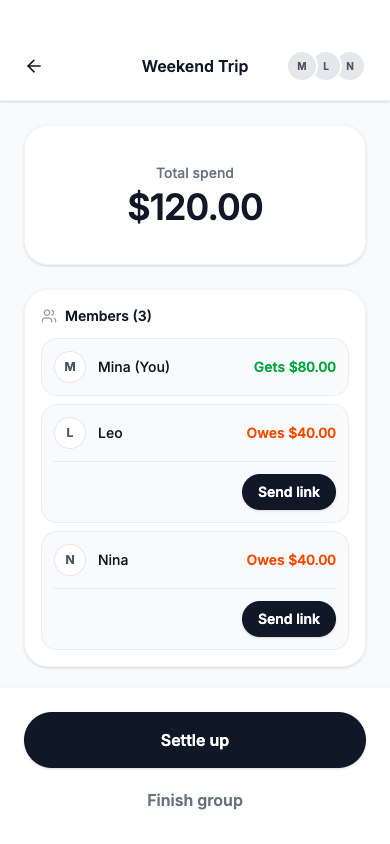
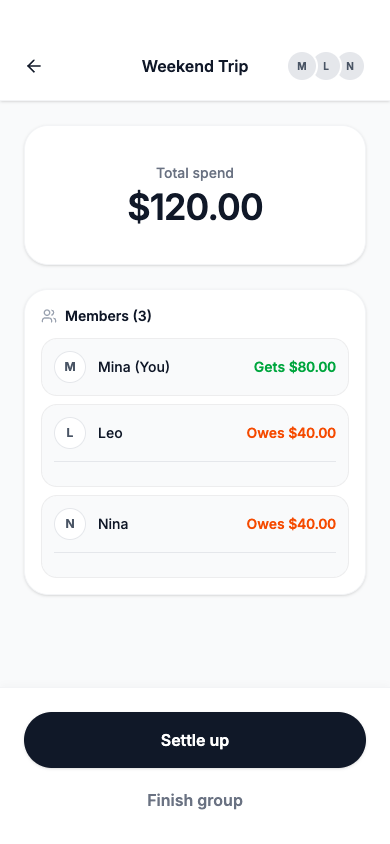
Move request actions into settle up

diff --git a/src/components/GroupDetail.tsx b/src/components/GroupDetail.tsx
@@ -14,16 +14,12 @@ export function GroupDetail({
   groupId, 
   onBack, 
   onAddSpend, 
-  onRequestPayment, 
-  onOpenPayerView,
   onCloseGroup,
   onGoToSettleUp
 }: { 
   groupId: string, 
   onBack: () => void, 
   onAddSpend: () => void, 
-  onRequestPayment: (memberId: string) => void, 
-  onOpenPayerView: (memberId: string) => void,
   onCloseGroup: () => void,
   onGoToSettleUp: () => void
 }) {
@@ -82,7 +78,6 @@ export function GroupDetail({
           <div className="space-y-2">
             {members.map(member => {
               const bal = getMemberBalance(state, group.id, member.id);
-              const openSplits = (Object.values(state.splits) as Split[]).filter(s => s.userId === member.id && s.status === 'open' && state.expenses[s.expenseId]?.groupId === group.id);
               const reqSplits = (Object.values(state.splits) as Split[]).filter(s => s.userId === member.id && s.status === 'request_sent' && state.expenses[s.expenseId]?.groupId === group.id);
               const markedSplits = (Object.values(state.splits) as Split[]).filter(s => s.userId === member.id && s.status === 'marked_paid' && state.expenses[s.expenseId]?.groupId === group.id);
               
@@ -108,31 +103,14 @@ export function GroupDetail({
 
                   {member.id !== state.currentUserId && isOwed && (
                     <div className="mt-3 pt-3 border-t border-gray-200 dark:border-gray-700 flex justify-end items-center">
-                      {openSplits.length > 0 ? (
-                        <button 
-                          onClick={() => onRequestPayment(member.id)}
-                          className="px-4 py-2 bg-gray-900 dark:bg-gray-100 text-white dark:text-gray-900 rounded-full text-sm font-semibold hover:bg-gray-800 dark:hover:bg-gray-200 transition-colors shadow-sm"
-                        >
-                          Send link
-                        </button>
-                      ) : reqSplits.length > 0 ? (
-                        <div className="flex items-center space-x-3">
-                          <span className="text-sm font-medium text-gray-500 dark:text-gray-400">
-                            Request sent
-                          </span>
-                          <button 
-                            onClick={() => onOpenPayerView(member.id)}
-                            className="px-3 py-1.5 bg-gray-100 dark:bg-gray-800 text-gray-700 dark:text-gray-300 rounded-full text-sm font-semibold hover:bg-gray-200 dark:hover:bg-gray-700 transition-colors"
-                          >
-                            View request
-                          </button>
-                        </div>
+                      {reqSplits.length > 0 ? (
+                        <span className="text-sm font-medium text-gray-500 dark:text-gray-400">
+                          Request sent
+                        </span>
                       ) : markedSplits.length > 0 ? (
-                        <div className="flex items-center space-x-3">
-                          <span className="text-sm font-medium text-orange-600">
-                            Needs confirm
-                          </span>
-                        </div>
+                        <span className="text-sm font-medium text-orange-600">
+                          Needs confirm
+                        </span>
                       ) : null}
                     </div>
                   )}

diff --git a/src/components/SettleUp.tsx b/src/components/SettleUp.tsx
@@ -7,11 +7,11 @@ import { getInitials } from '../utils';
 export function SettleUp({
   groupId,
   onBack,
-  onRequestPayment
+  onOpenPayerView
 }: {
   groupId: string;
   onBack: () => void;
-  onRequestPayment: (memberId: string) => void;
+  onOpenPayerView: (memberId: string) => void;
 }) {
   const { state, dispatch } = useAppState();
   const group = state.groups[groupId];
@@ -128,22 +128,25 @@ export function SettleUp({
                   )}
 
                   <div className="flex space-x-2 border-t border-gray-50 dark:border-gray-800 pt-3">
-                    {isCurrentUserReceiver && !hasMarkedPaid && (
+                    {isCurrentUserReceiver && !hasMarkedPaid && !hasRequestSent && (
                       <button 
                         onClick={() => {
                           handleRequest(move.from);
-                           // Optional: if we want to navigate to RequestPayment view, or just dispatch and stay. 
-                          // Wait, the prompt says "Sending a payment request from Settle up SHALL transition that payer to request_sent."
-                          // If we just transition and stay, it's easier. We don't need to navigate.
-                          // But wait! GroupDetail navigating to request_payment is a thing.
-                          // Let's just dispatch and let it be. We don't navigate.
                         }}
-                        disabled={hasRequestSent}
                         aria-label={`Send link to ${fromUser?.name}`}
                         className="flex-1 py-2 bg-gray-900 dark:bg-gray-100 text-white dark:text-gray-900 rounded-xl text-sm font-semibold hover:bg-gray-800 dark:hover:bg-gray-200 transition-colors disabled:opacity-50 disabled:cursor-not-allowed flex items-center justify-center"
                       >
                         <Send className="w-4 h-4 mr-2" />
-                        {hasRequestSent ? 'Sent' : 'Send link'}
+                        Send link
+                      </button>
+                    )}
+                    {isCurrentUserReceiver && hasRequestSent && !hasMarkedPaid && (
+                      <button
+                        onClick={() => onOpenPayerView(move.from)}
+                        aria-label={`View request for ${fromUser?.name}`}
+                        className="flex-1 py-2 bg-gray-100 dark:bg-gray-800 text-gray-700 dark:text-gray-300 rounded-xl text-sm font-semibold hover:bg-gray-200 dark:hover:bg-gray-700 transition-colors flex items-center justify-center"
+                      >
+                        View request
                       </button>
                     )}
                     {isCurrentUserReceiver && hasMarkedPaid && (

diff --git a/src/App.tsx b/src/App.tsx
@@ -85,8 +85,6 @@ function AppRouter() {
       groupId={view.groupId} 
       onBack={() => setView({ name: 'home' })} 
       onAddSpend={() => setView({ name: 'capture_spend', groupId: view.groupId })}
-      onRequestPayment={(memberId) => setView({ name: 'request_payment', groupId: view.groupId, memberId })}
-      onOpenPayerView={(memberId) => setView({ name: 'payer_view', groupId: view.groupId, memberId })}
       onCloseGroup={() => setView({ name: 'close_group', groupId: view.groupId })}
       onGoToSettleUp={() => setView({ name: 'settle_up', groupId: view.groupId })}
     />;
@@ -94,7 +92,7 @@ function AppRouter() {
     content = <SettleUp
       groupId={view.groupId}
       onBack={() => setView({ name: 'group_detail', groupId: view.groupId })}
-      onRequestPayment={(memberId) => setView({ name: 'request_payment', groupId: view.groupId, memberId })}
+      onOpenPayerView={(memberId) => setView({ name: 'payer_view', groupId: view.groupId, memberId })}
     />;
   } else if (view.name === 'close_group') {
     content = <CloseGroup 

diff --git a/proof/mobile-telegram-step-count.md b/proof/mobile-telegram-step-count.md
@@ -36,7 +36,7 @@ Not counted as steps:
 This is the path already used in the proof scripts and Telegram Desktop/mobile
 validation. It proves that a group can be finished even while Nina remains open.
 
-Total: 28 user-visible steps.
+Total: 27 user-visible steps.
 
 | # | Person | Screen | Action | Required result |
 |---:|---|---|---|---|
@@ -60,37 +60,35 @@ Total: 28 user-visible steps.
 | 18 | Mina | Review Split | Tap `Save spend` | Group Detail shows open balances |
 | 19 | Mina | Group Detail | Tap `Settle up` | Settle Up opens |
 | 20 | Mina | Settle Up | Tap `Send link to Leo` | Leo becomes `Request sent`; Mina net stays `+$80.00` |
-| 21 | Mina | Settle Up | Tap back | Group Detail opens |
-| 22 | Leo | Group Detail | Tap `View request` for Leo | Payment request opens |
-| 23 | Leo | Payment request | Tap `I paid Mina` | Leo becomes `Needs confirm`; Mina net stays `+$80.00` |
-| 24 | Mina | Group Detail | Tap `Confirm received from Leo` | Leo settles; Mina net becomes `+$40.00` |
-| 25 | Mina | Group Detail | Tap `Finish group` | Finish Group opens with `$40.00` still open warning |
-| 26 | Mina | Finish Group | Tap `Finish and save summary` | Group Summary opens |
-| 27 | Mina | Group Summary | Review summary | Total `$120.00`; open `$40.00`; Leo settled; Nina owes |
-| 28 | Mina | Group Summary | Tap `Done` | Home/History is reachable with persisted group summary |
+| 21 | Leo | Settle Up | Tap `View request` for Leo | Payment request opens |
+| 22 | Leo | Payment request | Tap `I paid Mina` | Leo becomes `Needs confirm`; Mina net stays `+$80.00` |
+| 23 | Mina | Group Detail | Tap `Confirm received from Leo` | Leo settles; Mina net becomes `+$40.00` |
+| 24 | Mina | Group Detail | Tap `Finish group` | Finish Group opens with `$40.00` still open warning |
+| 25 | Mina | Finish Group | Tap `Finish and save summary` | Group Summary opens |
+| 26 | Mina | Group Summary | Review summary | Total `$120.00`; open `$40.00`; Leo settled; Nina owes |
+| 27 | Mina | Group Summary | Tap `Done` | Home/History is reachable with persisted group summary |
 
 ## Complete Settled Path: Everyone Pays Before Finish
 
 This is the path the product should support when the group is truly finished
 with no open balances.
 
-Total: 35 user-visible steps.
+Total: 33 user-visible steps.
 
-Steps 1-24 match the current validated path above.
+Steps 1-23 match the current validated path above.
 
 | # | Person | Screen | Action | Required result |
 |---:|---|---|---|---|
-| 25 | Mina | Group Detail | Tap `Settle up` | Settle Up opens for Nina |
-| 26 | Mina | Settle Up | Tap `Send link to Nina` | Nina becomes `Request sent`; Mina net stays `+$40.00` |
-| 27 | Mina | Settle Up | Tap back | Group Detail opens |
-| 28 | Nina | Group Detail | Tap `View request` for Nina | Payment request opens |
-| 29 | Nina | Payment request | Tap `I paid Mina` | Nina becomes `Needs confirm`; Mina net stays `+$40.00` |
-| 30 | Mina | Group Detail | Tap `Confirm received from Nina` | Nina settles; Mina net becomes `$0.00` |
-| 31 | Mina | Group Detail | Tap `Finish group` | Finish Group opens as settled |
-| 32 | Mina | Finish Group | Review closure | Screen should say everyone is settled |
-| 33 | Mina | Finish Group | Tap `Finish and save summary` | Group Summary opens |
-| 34 | Mina | Group Summary | Review summary | Total `$120.00`; still open `$0.00`; everyone settled |
-| 35 | Mina | Group Summary | Tap `Done` | Home/History is reachable with settled summary |
+| 24 | Mina | Group Detail | Tap `Settle up` | Settle Up opens for Nina |
+| 25 | Mina | Settle Up | Tap `Send link to Nina` | Nina becomes `Request sent`; Mina net stays `+$40.00` |
+| 26 | Nina | Settle Up | Tap `View request` for Nina | Payment request opens |
+| 27 | Nina | Payment request | Tap `I paid Mina` | Nina becomes `Needs confirm`; Mina net stays `+$40.00` |
+| 28 | Mina | Group Detail | Tap `Confirm received from Nina` | Nina settles; Mina net becomes `$0.00` |
+| 29 | Mina | Group Detail | Tap `Finish group` | Finish Group opens as settled |
+| 30 | Mina | Finish Group | Review closure | Screen should say everyone is settled |
+| 31 | Mina | Finish Group | Tap `Finish and save summary` | Group Summary opens |
+| 32 | Mina | Group Summary | Review summary | Total `$120.00`; still open `$0.00`; everyone settled |
+| 33 | Mina | Group Summary | Tap `Done` | Home/History is reachable with settled summary |
 
 ## Persistence Proof Extension
 
@@ -102,16 +100,16 @@ Add these steps when validating host persistence:
 | +2 | Mina | Telegram chat | Tap `Open ChopDot` | Mini App reopens |
 | +3 | Mina | Home/History | Confirm persisted state | Same user, group, balances, friends, and summary remain |
 
-With persistence proof, the current open-balance path is 31 steps.
-With persistence proof, the complete settled path is 38 steps.
+With persistence proof, the current open-balance path is 30 steps.
+With persistence proof, the complete settled path is 36 steps.
 
 ## Redundancy / Friction Observed
 
 1. Group creation asks Mina to manually type each friend even though Telegram can
    eventually provide chat or share context.
-2. The current request flow makes Mina enter `Settle up`, send one link, go back,
-   then use `View request` from the organizer device to simulate the payer.
-3. `View request` is a prototype bridge. In a real product, Leo/Nina should open
+2. Request-starting actions now live in `Settle up`, but the prototype still
+   uses `View request` from the organizer device to simulate the payer.
+3. `View request` remains a prototype bridge. In a real product, Leo/Nina should open
    their own link/device state directly.
 4. The organizer has to repeat the same send/request/paid/confirm sequence for
    each member.
@@ -126,7 +124,7 @@ With persistence proof, the complete settled path is 38 steps.
 The current shell proves the state spine works, but the journey is too long for
 a real launch-quality product.
 
-The next product improvement should reduce the open-balance path from about 28
+The next product improvement should reduce the open-balance path from about 27
 steps to roughly 18-20 by:
 
 - making group creation use contacts/invites more naturally;
@@ -136,4 +134,3 @@ steps to roughly 18-20 by:
   review;
 - showing a group status that distinguishes `open`, `waiting`, `needs confirm`,
   and `ready to finish` without forcing extra navigation.
-
